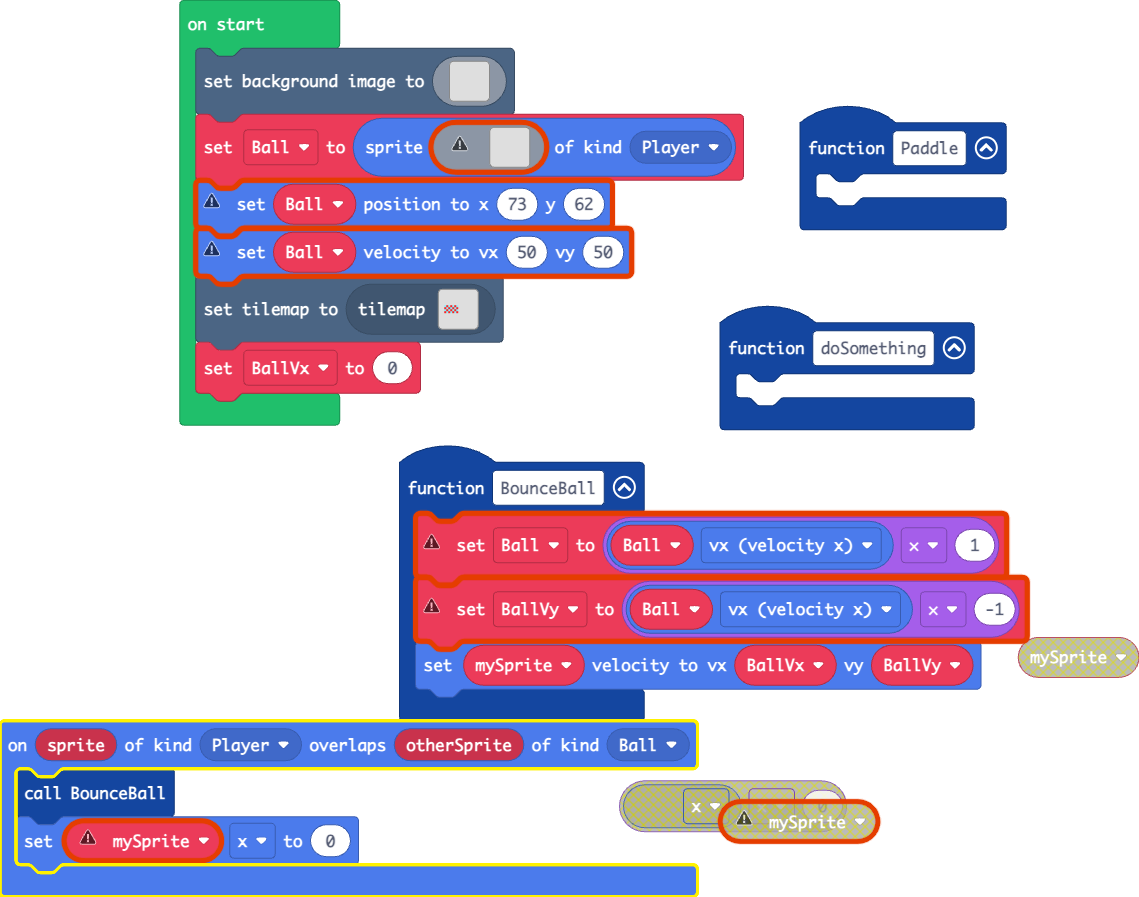
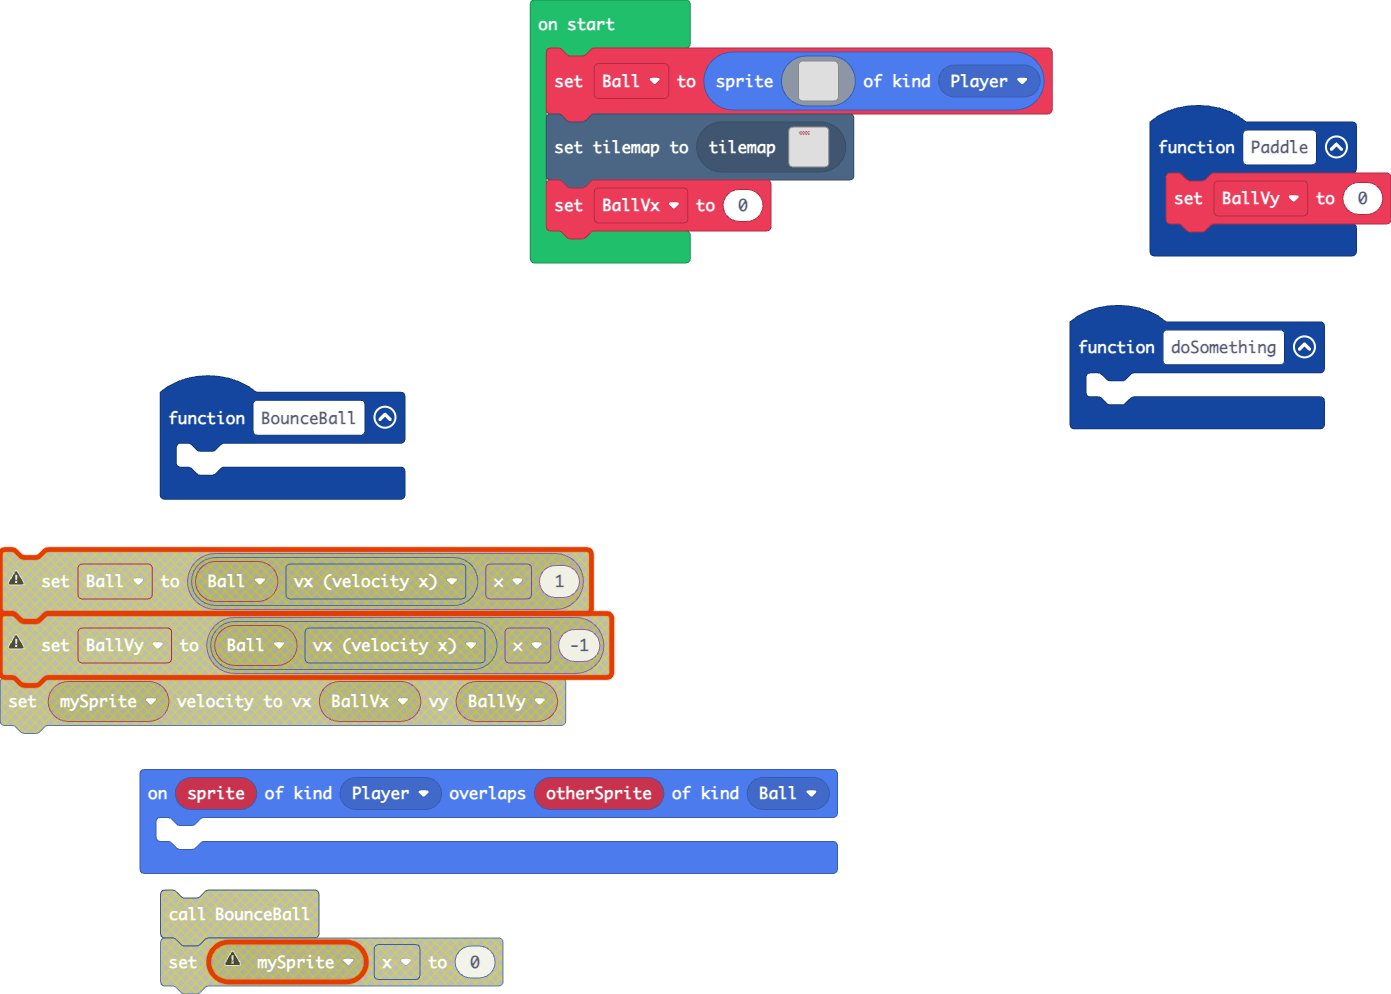
Update main.blocks, main.ts, tilemap.g.jres, tilemap.g.ts

diff --git a/main.ts b/main.ts
@@ -2,147 +2,19 @@ namespace SpriteKind {
     export const Ball = SpriteKind.create()
 }
 sprites.onOverlap(SpriteKind.Player, SpriteKind.Ball, function (sprite, otherSprite) {
-    BounceBall()
-    mySprite.x = 0
+	
 })
 function BounceBall () {
-    Ball = Ball.vx * 1
-    BallVy = Ball.vx * -1
-    mySprite.setVelocity(BallVx, BallVy)
+	
 }
 function doSomething () {
 	
 }
 function Paddle () {
-	
+    BallVy = 0
 }
 let BallVy = 0
-let mySprite: Sprite = null
-let BallVx = 0
-let Ball = 0
-scene.setBackgroundImage(img`
-    ................................................................................................................................................................
-    ................................................................................................................................................................
-    ................................................................................................................................................................
-    ................................................................................................................................................................
-    ................................................................................................................................................................
-    ................................................................................................................................................................
-    ................................................................................................................................................................
-    ................................................................................................................................................................
-    ................................................................................................................................................................
-    ................................................................................................................................................................
-    ................................................................................................................................................................
-    ................................................................................................................................................................
-    ................................................................................................................................................................
-    ................................................................................................................................................................
-    ................................................................................................................................................................
-    ................................................................................................................................................................
-    ................................................................................................................................................................
-    ................................................................................................................................................................
-    ................................................................................................................................................................
-    ................................................................................................................................................................
-    ................................................................................................................................................................
-    ................................................................................................................................................................
-    ................................................................................................................................................................
-    ................................................................................................................................................................
-    ................................................................................................................................................................
-    ................................................................................................................................................................
-    ................................................................................................................................................................
-    ................................................................................................................................................................
-    ................................................................................................................................................................
-    ................................................................................................................................................................
-    ................................................................................................................................................................
-    ................................................................................................................................................................
-    ................................................................................................................................................................
-    ................................................................................................................................................................
-    ................................................................................................................................................................
-    ................................................................................................................................................................
-    ................................................................................................................................................................
-    ................................................................................................................................................................
-    ................................................................................................................................................................
-    ................................................................................................................................................................
-    ................................................................................................................................................................
-    ................................................................................................................................................................
-    ................................................................................................................................................................
-    ................................................................................................................................................................
-    ................................................................................................................................................................
-    ................................................................................................................................................................
-    ................................................................................................................................................................
-    ................................................................................................................................................................
-    ................................................................................................................................................................
-    ................................................................................................................................................................
-    ................................................................................................................................................................
-    ................................................................................................................................................................
-    ................................................................................................................................................................
-    ................................................................................................................................................................
-    ................................................................................................................................................................
-    ................................................................................................................................................................
-    ................................................................................................................................................................
-    ................................................................................................................................................................
-    ................................................................................................................................................................
-    ................................................................................................................................................................
-    ................................................................................................................................................................
-    ................................................................................................................................................................
-    ................................................................................................................................................................
-    ................................................................................................................................................................
-    ................................................................................................................................................................
-    ................................................................................................................................................................
-    ................................................................................................................................................................
-    ................................................................................................................................................................
-    ................................................................................................................................................................
-    ................................................................................................................................................................
-    ................................................................................................................................................................
-    ................................................................................................................................................................
-    ................................................................................................................................................................
-    ................................................................................................................................................................
-    ................................................................................................................................................................
-    ................................................................................................................................................................
-    ................................................................................................................................................................
-    ................................................................................................................................................................
-    ................................................................................................................................................................
-    ................................................................................................................................................................
-    ................................................................................................................................................................
-    ................................................................................................................................................................
-    ................................................................................................................................................................
-    ................................................................................................................................................................
-    ................................................................................................................................................................
-    ................................................................................................................................................................
-    ................................................................................................................................................................
-    ................................................................................................................................................................
-    ................................................................................................................................................................
-    ................................................................................................................................................................
-    ................................................................................................................................................................
-    ................................................................................................................................................................
-    ................................................................................................................................................................
-    ................................................................................................................................................................
-    ................................................................................................................................................................
-    ................................................................................................................................................................
-    ................................................................................................................................................................
-    ................................................................................................................................................................
-    ................................................................................................................................................................
-    ................................................................................................................................................................
-    ................................................................................................................................................................
-    ................................................................................................................................................................
-    ................................................................................................................................................................
-    ................................................................................................................................................................
-    ................................................................................................................................................................
-    ................................................................................................................................................................
-    ................................................................................................................................................................
-    ................................................................................................................................................................
-    ................................................................................................................................................................
-    ................................................................................................................................................................
-    ................................................................................................................................................................
-    ................................................................................................................................................................
-    ................................................................................................................................................................
-    ................................................................................................................................................................
-    ................................................................................................................................................................
-    ................................................................................................................................................................
-    ................................................................................................................................................................
-    ................................................................................................................................................................
-    ................................................................................................................................................................
-    ................................................................................................................................................................
-    `)
-Ball = sprites.create(img`
+let Ball = sprites.create(img`
     . . . . . . . . . . . . . . . . 
     . . . . . . . . . . . . . . . . 
     . . . . . . . . . . . . . . . . 
@@ -160,7 +32,5 @@ Ball = sprites.create(img`
     . . . . . . . . . . . . . . . . 
     . . . . . . . . . . . . . . . . 
     `, SpriteKind.Player)
-Ball.setPosition(73, 62)
-Ball.setVelocity(50, 50)
 tiles.setCurrentTilemap(tilemap`level4`)
-BallVx = 0
+let BallVx = 0

diff --git a/tilemap.g.ts b/tilemap.g.ts
@@ -81,15 +81,32 @@ namespace myTiles {
 . . . . . . . . . . . . . . . . 
 `, [myTiles.transparency16], TileScale.Sixteen);
             case "level4":
-            case "level4":return tiles.createTilemap(hex`100008000000000000000000000000000000000000000000000000000000000000000000000201020102010200000000000000000001020102010201000000000000000000020102010201020000000000000000000102010201020100000000000000000000000000000000000000000000000000000000000000000000000000000000`, img`
-. . . . . . . . . . . . . . . . 
-. . . . . . . . . . . . . . . . 
-. . . . . . . . . . . . . . . . 
-. . . . . . . . . . . . . . . . 
-. . . . . . . . . . . . . . . . 
-. . . . . . . . . . . . . . . . 
-. . . . . . . . . . . . . . . . 
-. . . . . . . . . . . . . . . . 
+            case "level4":return tiles.createTilemap(hex`1000190000020102010201020100000000000000000102010201020102000000000000000002010201020102010000000000000000000000000000000000000000000000000000000000000000000000000000000000000000000000000000000000000000000000000000000000000000000000000000000000000000000000000000000000000000000000000000000000000000000000000000000000000000000000000000000000000000000000000000000000000000000000000000000000000000000000000000000000000000000000000000000000000000000000000000000000000000000000000000000000000000000000000000000000000000000000000000000000000000000000000000000000000000000000000000000000000000000000000000000000000000000000000000000000000000000000000000000000000000000000000000000000000000000000000000000000000000000000000000000000000000000000000000000000000000000000000000000000000000000000000000000000000000000000`, img`
+................
+................
+................
+................
+................
+................
+................
+................
+................
+................
+................
+................
+................
+................
+................
+................
+................
+................
+................
+................
+................
+................
+................
+................
+................
 `, [myTiles.transparency16,myTiles.tile4,myTiles.tile3], TileScale.Sixteen);
         }
         return null;
